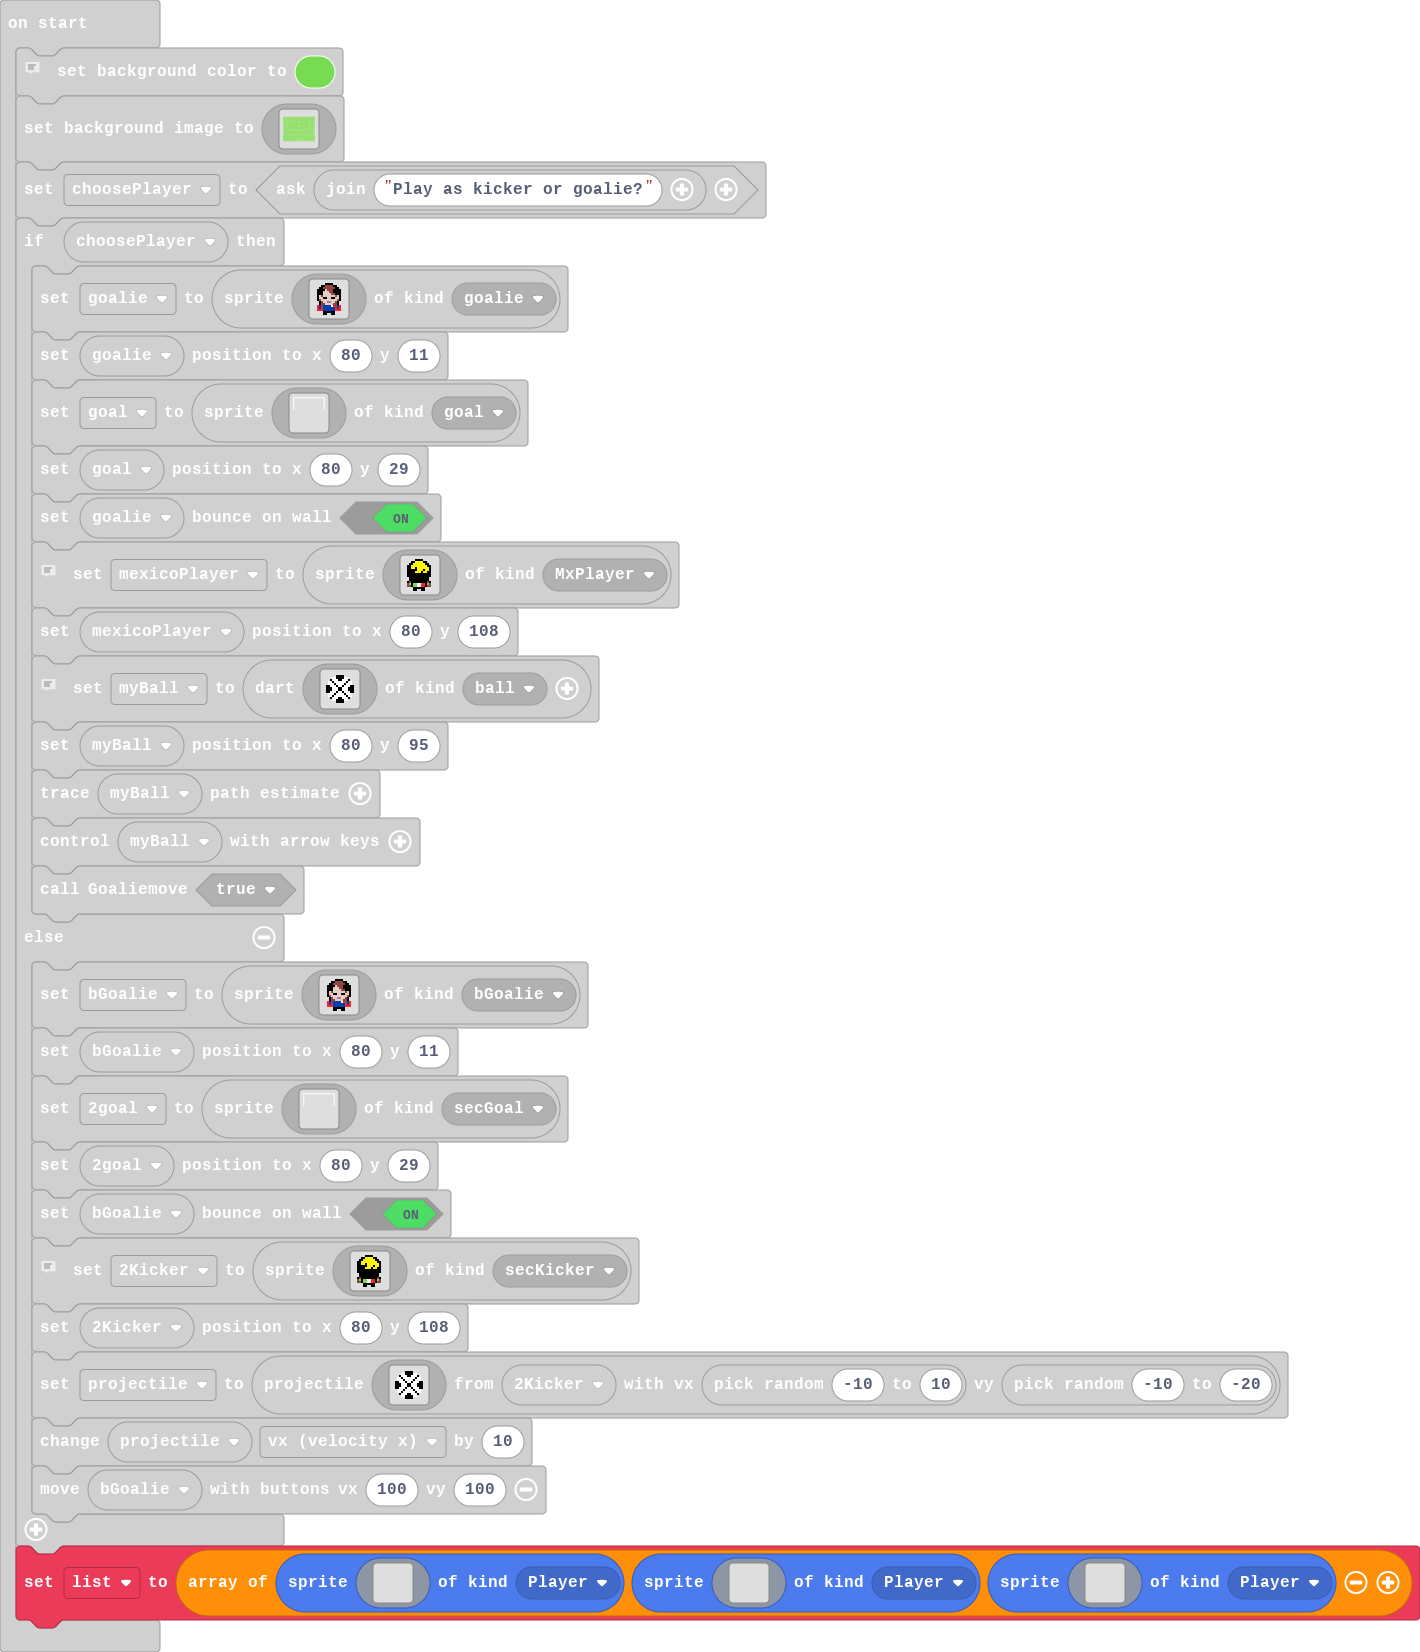
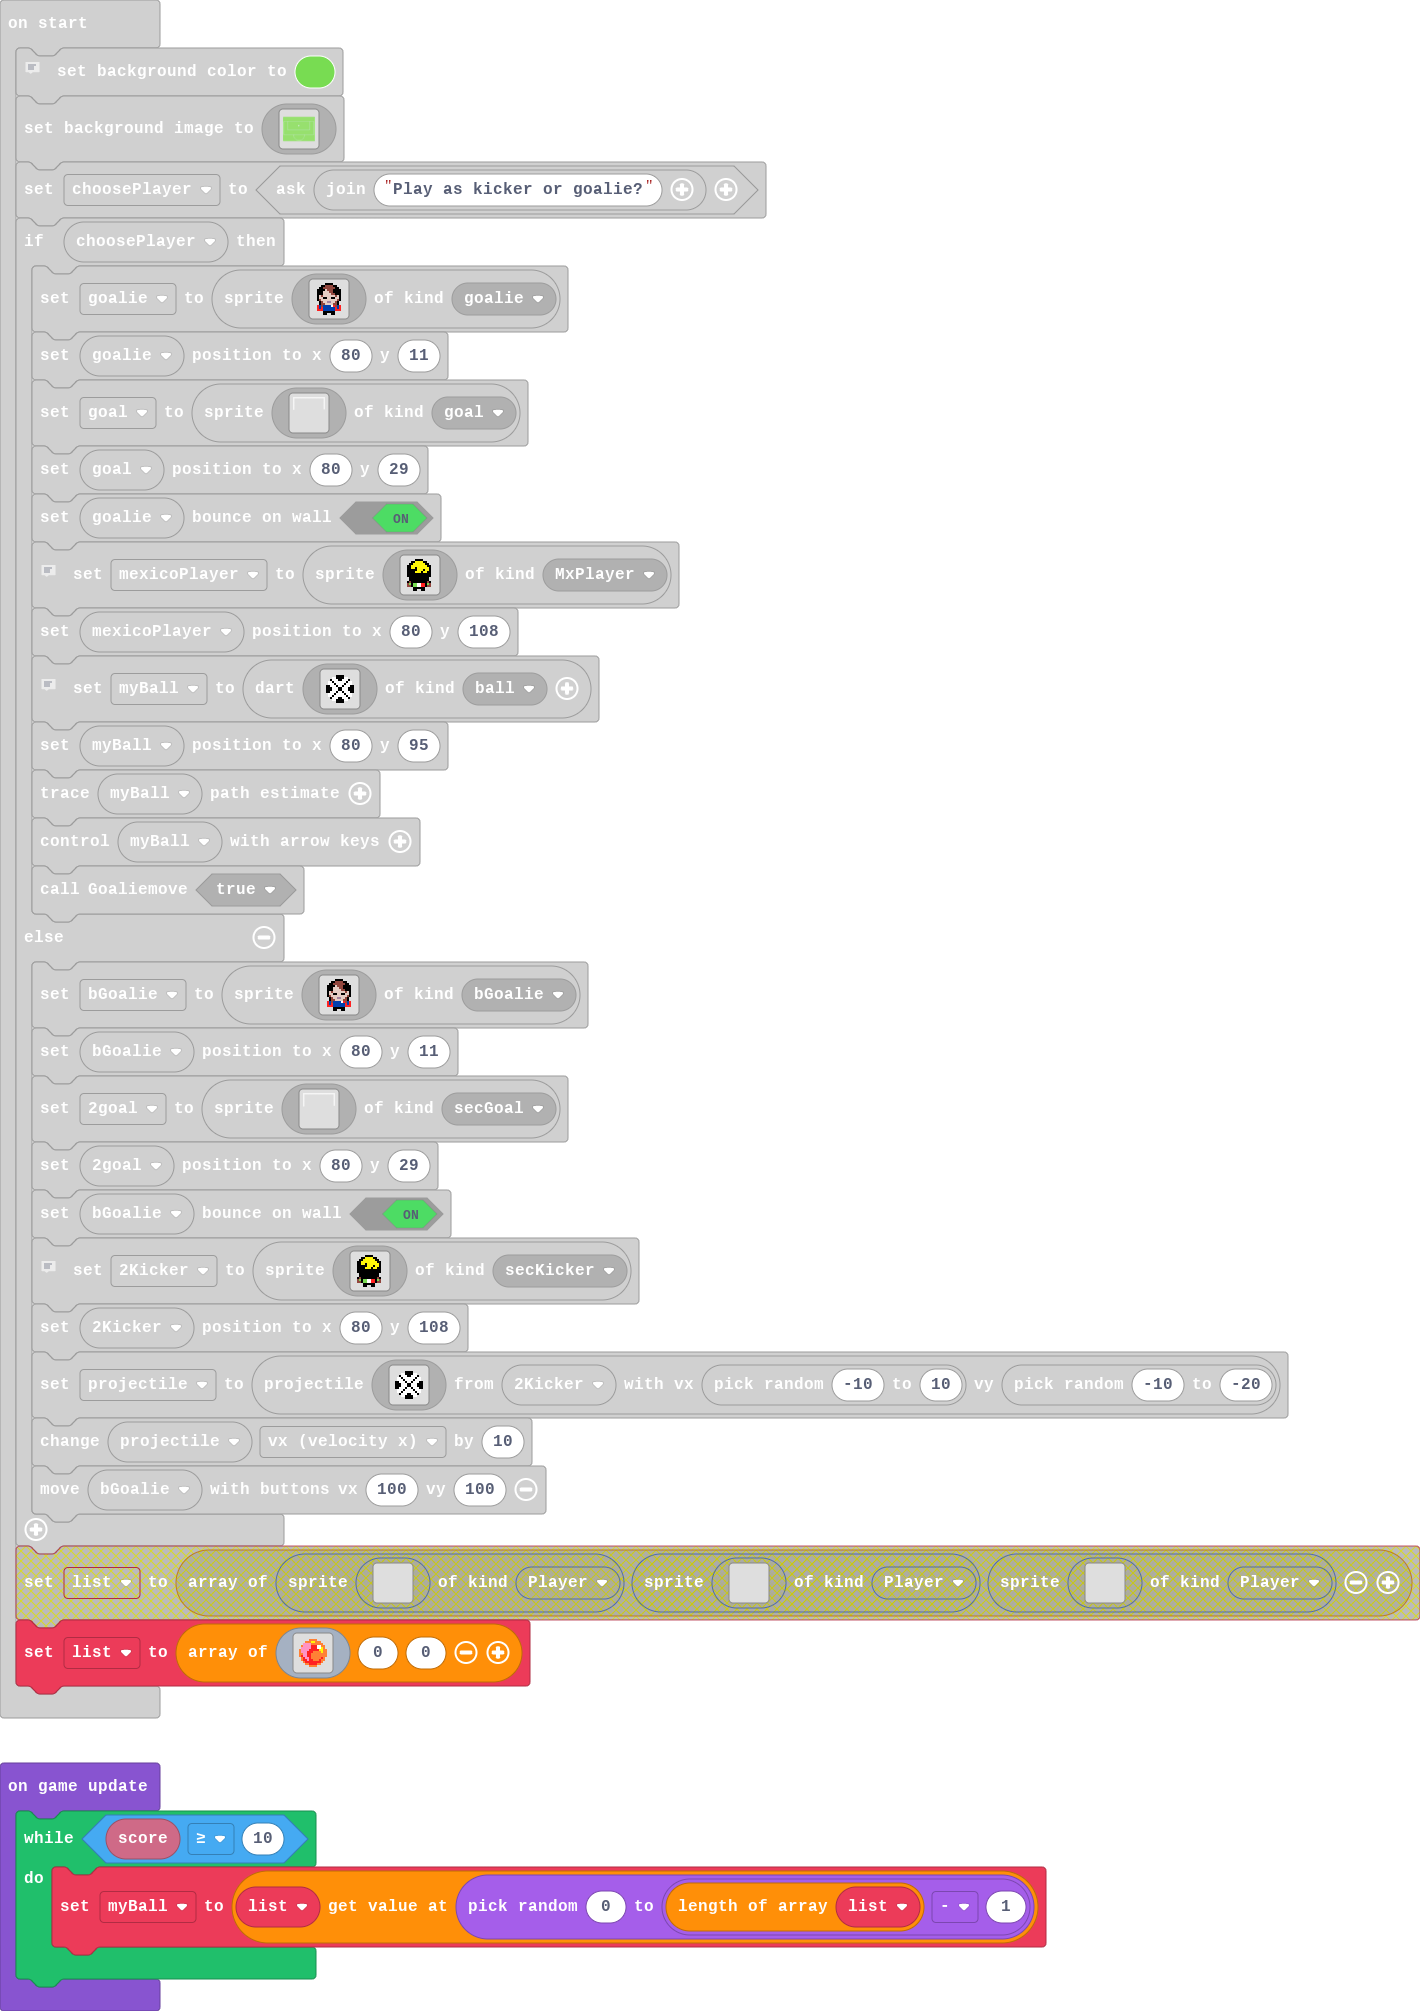
Update main.blocks, main.ts

Changed region(s): [[0.0, 0.0, 1.0, 1.0]]

diff --git a/main.ts b/main.ts
@@ -411,55 +411,26 @@ if (choosePlayer) {
     projectile.vx += 10
     controller.moveSprite(bGoalie, 100, 100)
 }
-let list = [sprites.create(img`
+let list = [img`
     . . . . . . . . . . . . . . . . 
+    . . . . . . 4 4 4 4 . . . . . . 
+    . . . . 4 4 4 5 5 4 4 4 . . . . 
+    . . . 3 3 3 3 4 4 4 4 4 4 . . . 
+    . . 4 3 3 3 3 2 2 2 1 1 4 4 . . 
+    . . 3 3 3 3 3 2 2 2 1 1 5 4 . . 
+    . 4 3 3 3 3 2 2 2 2 2 5 5 4 4 . 
+    . 4 3 3 3 2 2 2 4 4 4 4 5 4 4 . 
+    . 4 4 3 3 2 2 4 4 4 4 4 4 4 4 . 
+    . 4 2 3 3 2 2 4 4 4 4 4 4 4 4 . 
+    . . 4 2 3 3 2 4 4 4 4 4 2 4 . . 
+    . . 4 2 2 3 2 2 4 4 4 2 4 4 . . 
+    . . . 4 2 2 2 2 2 2 2 2 4 . . . 
+    . . . . 4 4 2 2 2 2 4 4 . . . . 
+    . . . . . . 4 4 4 4 . . . . . . 
     . . . . . . . . . . . . . . . . 
-    . . . . . . . . . . . . . . . . 
-    . . . . . . . . . . . . . . . . 
-    . . . . . . . . . . . . . . . . 
-    . . . . . . . . . . . . . . . . 
-    . . . . . . . . . . . . . . . . 
-    . . . . . . . . . . . . . . . . 
-    . . . . . . . . . . . . . . . . 
-    . . . . . . . . . . . . . . . . 
-    . . . . . . . . . . . . . . . . 
-    . . . . . . . . . . . . . . . . 
-    . . . . . . . . . . . . . . . . 
-    . . . . . . . . . . . . . . . . 
-    . . . . . . . . . . . . . . . . 
-    . . . . . . . . . . . . . . . . 
-    `, SpriteKind.Player), sprites.create(img`
-    . . . . . . . . . . . . . . . . 
-    . . . . . . . . . . . . . . . . 
-    . . . . . . . . . . . . . . . . 
-    . . . . . . . . . . . . . . . . 
-    . . . . . . . . . . . . . . . . 
-    . . . . . . . . . . . . . . . . 
-    . . . . . . . . . . . . . . . . 
-    . . . . . . . . . . . . . . . . 
-    . . . . . . . . . . . . . . . . 
-    . . . . . . . . . . . . . . . . 
-    . . . . . . . . . . . . . . . . 
-    . . . . . . . . . . . . . . . . 
-    . . . . . . . . . . . . . . . . 
-    . . . . . . . . . . . . . . . . 
-    . . . . . . . . . . . . . . . . 
-    . . . . . . . . . . . . . . . . 
-    `, SpriteKind.Player), sprites.create(img`
-    . . . . . . . . . . . . . . . . 
-    . . . . . . . . . . . . . . . . 
-    . . . . . . . . . . . . . . . . 
-    . . . . . . . . . . . . . . . . 
-    . . . . . . . . . . . . . . . . 
-    . . . . . . . . . . . . . . . . 
-    . . . . . . . . . . . . . . . . 
-    . . . . . . . . . . . . . . . . 
-    . . . . . . . . . . . . . . . . 
-    . . . . . . . . . . . . . . . . 
-    . . . . . . . . . . . . . . . . 
-    . . . . . . . . . . . . . . . . 
-    . . . . . . . . . . . . . . . . 
-    . . . . . . . . . . . . . . . . 
-    . . . . . . . . . . . . . . . . 
-    . . . . . . . . . . . . . . . . 
-    `, SpriteKind.Player)]
+    `, 0, 0]
+game.onUpdate(function () {
+    while (info.score() >= 10) {
+        myBall = list[randint(0, list.length - 1)]
+    }
+})
